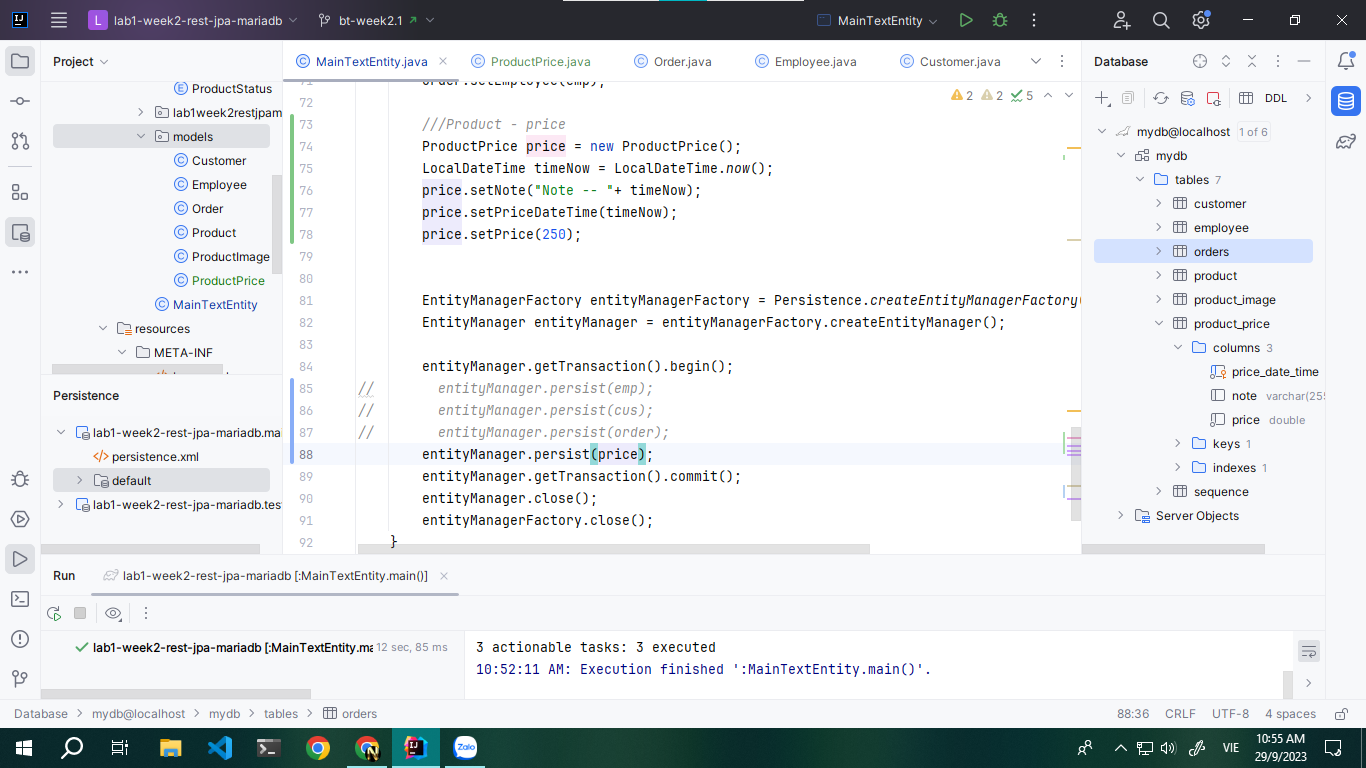
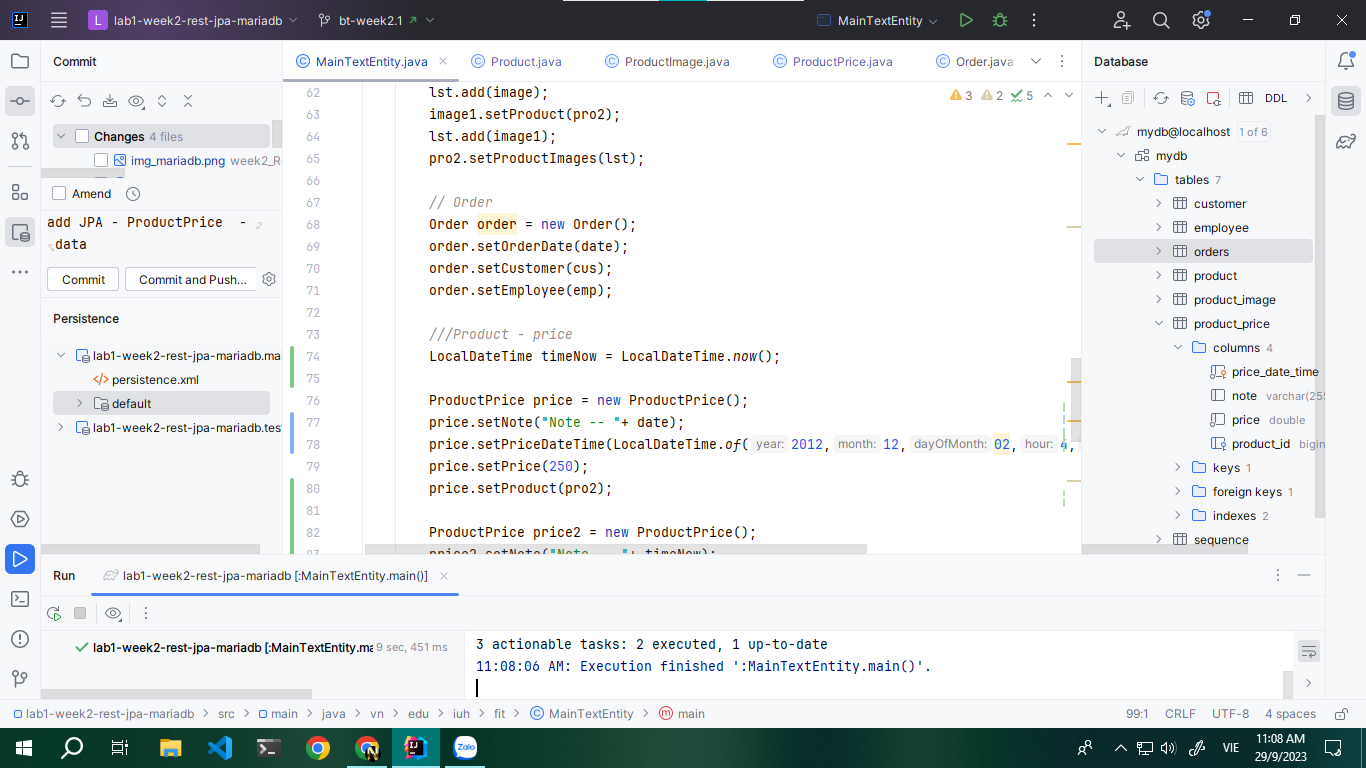
add JPA - ProductPrice-Product  - data

diff --git a/week2_RestAPI/lab1-week2-rest-jpa-mariadb/src/main/java/vn/edu/iuh/fit/MainTextEntity.java b/week2_RestAPI/lab1-week2-rest-jpa-mariadb/src/main/java/vn/edu/iuh/fit/MainTextEntity.java
@@ -71,11 +71,19 @@ public class MainTextEntity {
         order.setEmployee(emp);
 
         ///Product - price
-        ProductPrice price = new ProductPrice();
         LocalDateTime timeNow = LocalDateTime.now();
-        price.setNote("Note -- "+ timeNow);
-        price.setPriceDateTime(timeNow);
+
+        ProductPrice price = new ProductPrice();
+        price.setNote("Note -- "+ date);
+        price.setPriceDateTime(LocalDateTime.of(2012,12,02,4,45));
         price.setPrice(250);
+        price.setProduct(pro2);
+
+        ProductPrice price2 = new ProductPrice();
+        price2.setNote("Note -- "+ timeNow);
+        price2.setPriceDateTime(timeNow);
+        price2.setPrice(250);
+        price2.setProduct(pro2);
 
 
         EntityManagerFactory entityManagerFactory = Persistence.createEntityManagerFactory("default");
@@ -85,7 +93,10 @@ public class MainTextEntity {
 //        entityManager.persist(emp);
 //        entityManager.persist(cus);
 //        entityManager.persist(order);
+        entityManager.persist(pro2);
         entityManager.persist(price);
+        entityManager.persist(price2);
+
         entityManager.getTransaction().commit();
         entityManager.close();
         entityManagerFactory.close();

diff --git a/week2_RestAPI/lab1-week2-rest-jpa-mariadb/src/main/java/vn/edu/iuh/fit/models/ProductPrice.java b/week2_RestAPI/lab1-week2-rest-jpa-mariadb/src/main/java/vn/edu/iuh/fit/models/ProductPrice.java
@@ -1,9 +1,6 @@
 package vn.edu.iuh.fit.models;
 
-import jakarta.persistence.Column;
-import jakarta.persistence.Entity;
-import jakarta.persistence.Id;
-import jakarta.persistence.Table;
+import jakarta.persistence.*;
 
 import java.time.LocalDate;
 import java.time.LocalDateTime;
@@ -22,6 +19,19 @@ public class ProductPrice {
     private double price;
     @Column(name = "note")
     private String note;
+
+    //JPA
+    @ManyToOne
+    @JoinColumn(name = "product_id",unique = false,nullable = true)
+    private Product product;
+
+    public Product getProduct() {
+        return product;
+    }
+
+    public void setProduct(Product product) {
+        this.product = product;
+    }
 
     public ProductPrice(LocalDateTime priceDateTime, double price, String note) {
         this.priceDateTime = priceDateTime;

diff --git a/week2_RestAPI/lab1-week2-rest-jpa-mariadb/src/main/java/vn/edu/iuh/fit/models/Product.java b/week2_RestAPI/lab1-week2-rest-jpa-mariadb/src/main/java/vn/edu/iuh/fit/models/Product.java
@@ -34,6 +34,9 @@ public class Product {
     @OneToMany(mappedBy = "product",cascade = CascadeType.PERSIST)
     private List<ProductImage> productImages;
 
+    @OneToMany(mappedBy = "product",cascade = CascadeType.PERSIST)
+    private List<ProductPrice> productPrices;
+
     public List<ProductImage> getProductImages() {
         return productImages;
     }
